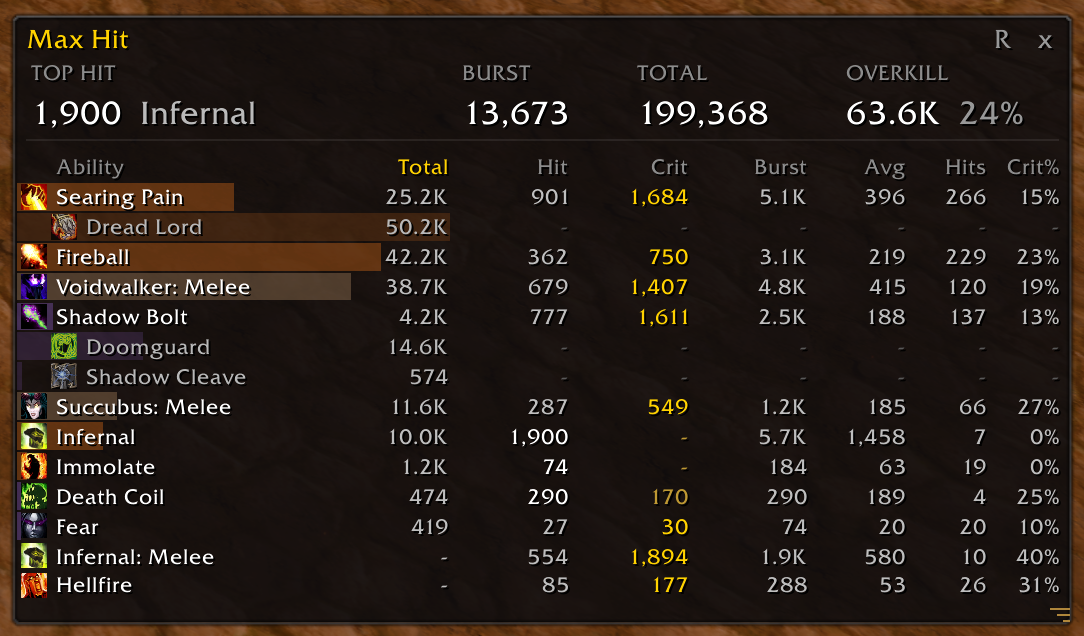
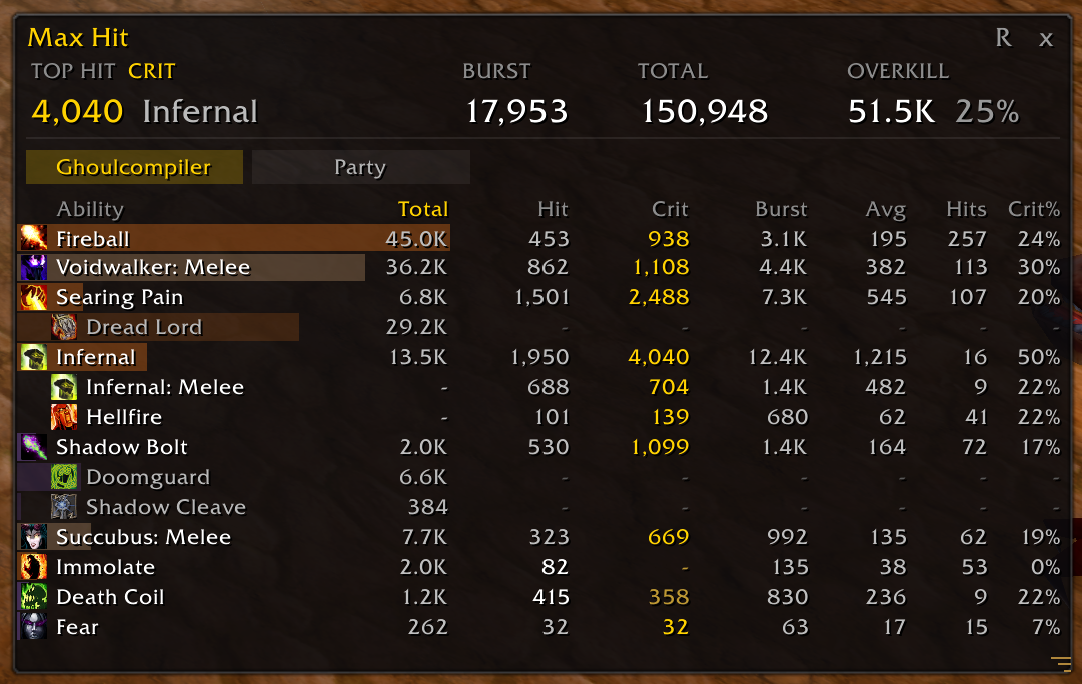
feat: group a summon's attacks under its row

diff --git a/CHANGELOG.md b/CHANGELOG.md
@@ -1,5 +1,9 @@
 # Changelog
 
+## 1.3.2
+
+- A summon's attacks are grouped: Infernal: Melee and Hellfire sit indented under Infernal, with the summon's total on the top row and each attack keeping its own Hit, Crit and Avg.
+
 ## 1.3.1
 
 - Total and Burst columns now use short numbers like 17.2K, 317K and 5.31M. Hit, Crit and Avg stay full numbers, and the TOTAL and BURST tiles at the top still show the exact number.
